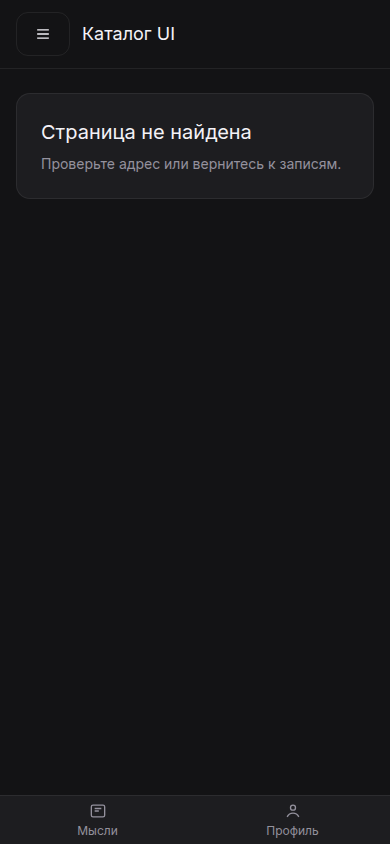
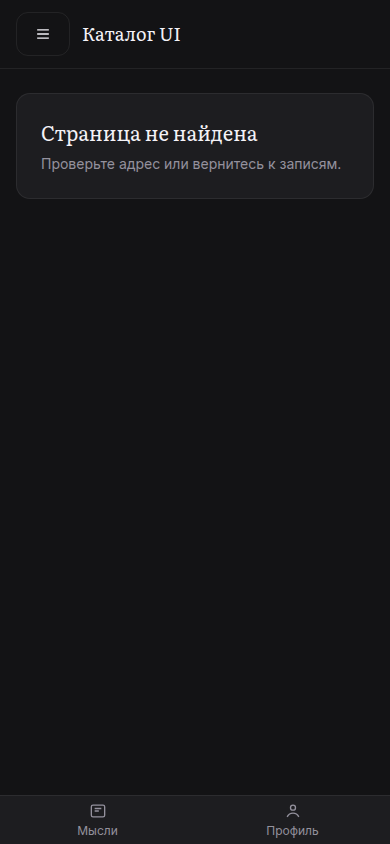
fix(ui): headings in Literata 500 (font stacks on <body>: next/font variables are not visible on :root); warm cream paper #e8e5df; p1-after screenshots refreshed

Changed region(s): [[0.0923, 0.1232, 0.6769, 0.1848], [0.2154, 0.0308, 0.4615, 0.0616]]

diff --git a/src/app/globals.css b/src/app/globals.css
@@ -26,13 +26,13 @@
   --shadow-primary: inset 0 0.5px 0 rgba(255, 255, 255, 0.25), 0 1px 2px rgba(0, 0, 0, 0.4);
   --shadow-popover: 0 12px 28px rgba(0, 0, 0, 0.45);
   /* paper of the polaroids and the desk: a physical object, it keeps its own light colours */
-  --paper: #efe8dc;
-  --paper-cool: #d7d8de;
-  --paper-ink: #1a1424;
-  --paper-ink-soft: #2c2f3c;
-  --paper-ink-muted: #4a4258;
-  --paper-line: #d8cfc0;
-  --paper-light: #fbf7f0;
+  --paper: #e8e5df;
+  --paper-cool: #dcd8d0;
+  --paper-ink: #22212a;
+  --paper-ink-soft: #3a3844;
+  --paper-ink-muted: #55525c;
+  --paper-line: #d3cec4;
+  --paper-light: #f3f0ea;
 
   --vocal-bg: var(--bg);
   --vocal-surface: var(--surface);
@@ -105,7 +105,11 @@ body {
   overflow-x: hidden;
 }
 
+/* next/font puts --font-inter / --font-literata on <body>, so the composed stacks are defined here, not on :root (a var() on :root
+   would not see them). @theme inline does not emit --font-sans / --font-display, and several rules read them directly. */
 body {
+  --font-sans: -apple-system, "SF Pro Text", var(--font-inter), system-ui, "Segoe UI", Arial, sans-serif;
+  --font-display: var(--font-literata), Georgia, "Times New Roman", serif;
   min-height: 100vh;
   min-width: 320px;
   font-family: -apple-system, "SF Pro Text", var(--font-inter), system-ui, "Segoe UI", Arial, sans-serif;
@@ -113,7 +117,9 @@ body {
   line-height: var(--vocal-leading);
 }
 
-.font-display {
+.font-display,
+h1,
+h2 {
   font-weight: 500;
 }
 
@@ -452,9 +458,9 @@ a[aria-disabled="true"] {
 
   .archive-workspace-toolbar .archive-toolbar-title {
     margin: 0;
-    font-family: var(--font-sans);
+    font-family: var(--font-display);
     font-size: 1.35rem;
-    font-weight: 600;
+    font-weight: 500;
     line-height: 1.1;
     white-space: nowrap;
   }

diff --git a/tests/p01-6-2-desktop-static.test.ts b/tests/p01-6-2-desktop-static.test.ts
@@ -93,7 +93,7 @@ test("P01.6-2 large desktop splits thoughts into deterministic six-card desk spr
   assert.match(css, /\.archive-workspace-desk[\s\S]*--archive-desk-size/);
   assert.equal(/\n\s*filter:\s*blur/.test(css), false);
   assert.match(css, /\.archive-desk-slot \.archive-polaroid[\s\S]*var\(--paper-cool\)/);
-  assert.match(css, /--paper-cool:\s*#d7d8de/); // P1: same colour, now a token
+  assert.match(css, /--paper-cool:\s*#dcd8d0/); // P1: token; warm cream after the owner's review (was cool grey #d7d8de)
   assert.match(css, /\.archive-desk-slot \.archive-polaroid[\s\S]*-2px 4px 6px/);
   assert.match(css, /\.archive-desk-spread \.archive-polaroid-frame[\s\S]*inset 0 0 0 1px/);
   assert.match(css, /\.archive-desk-spread \.archive-polaroid:hover[\s\S]*translateY\(-5px\)/);

diff --git a/docs/design/P1_REPORT.md b/docs/design/P1_REPORT.md
@@ -40,3 +40,9 @@
 ## Проверки
 
 `tsc` 0 ошибок; `next lint` 0 ошибок, 10 предупреждений; `next build` exit 0 (локально, `VOCAL_UI_TEST_DB=1`); набор `dbTests` 92 файла — **459 из 459**, 648 с (напрямую, не через Docker-раннер). Скриншоты: `docs/design/p1-after/` (30 файлов, 1440×900 и 390×844).
+
+## Правки владельца после приёмки (15.10.2026)
+
+1. **Заголовки — Literata 500.** Причина «в Inter» найдена: `--font-display` и `--font-sans` объявлены только в `@theme inline`, а Tailwind такие переменные в `:root` не выводит; десятки правил читают `var(--font-display)` напрямую (название мысли, «Мысли», заголовки вкладок, логотип, дата, подписи полароидов) и получали «пустое» значение, то есть наследовали Inter. Теперь стеки заданы на `<body>` (там `next/font` кладёт `--font-literata`/`--font-inter`; на `:root` `var()` их бы не увидел), `h1`, `h2` и `.font-display` — вес 500, заголовок «Мысли» в тулбаре — Literata 500. **Побочный эффект, который нужно знать:** все места, где код с самого начала просил `--font-display` (логотип «Vocal», дата в сайдбаре, названия на полароидах, «Попытки», «Диалог с Vocal», модалки), тоже стали Literata — раньше они из-за этой ошибки показывались в Inter. Если что-то из этого должно остаться Inter — скажи, это точечная правка.
+2. **Бумага — тёплая кремовая:** `--paper #e8e5df` (как `--paper` в `takes-path.css` прототипа), производные `--paper-cool #dcd8d0`, `--paper-light #f3f0ea`, `--paper-line #d3cec4`, чернила `#22212a` / `#3a3844` / `#55525c`. Тест `p01-6-2-desktop-static` обновлён по значению токена.
+3. Скриншоты `p1-after/` сняты заново (30 файлов); `1440x900_08-recording` в последнем прогоне снят.
